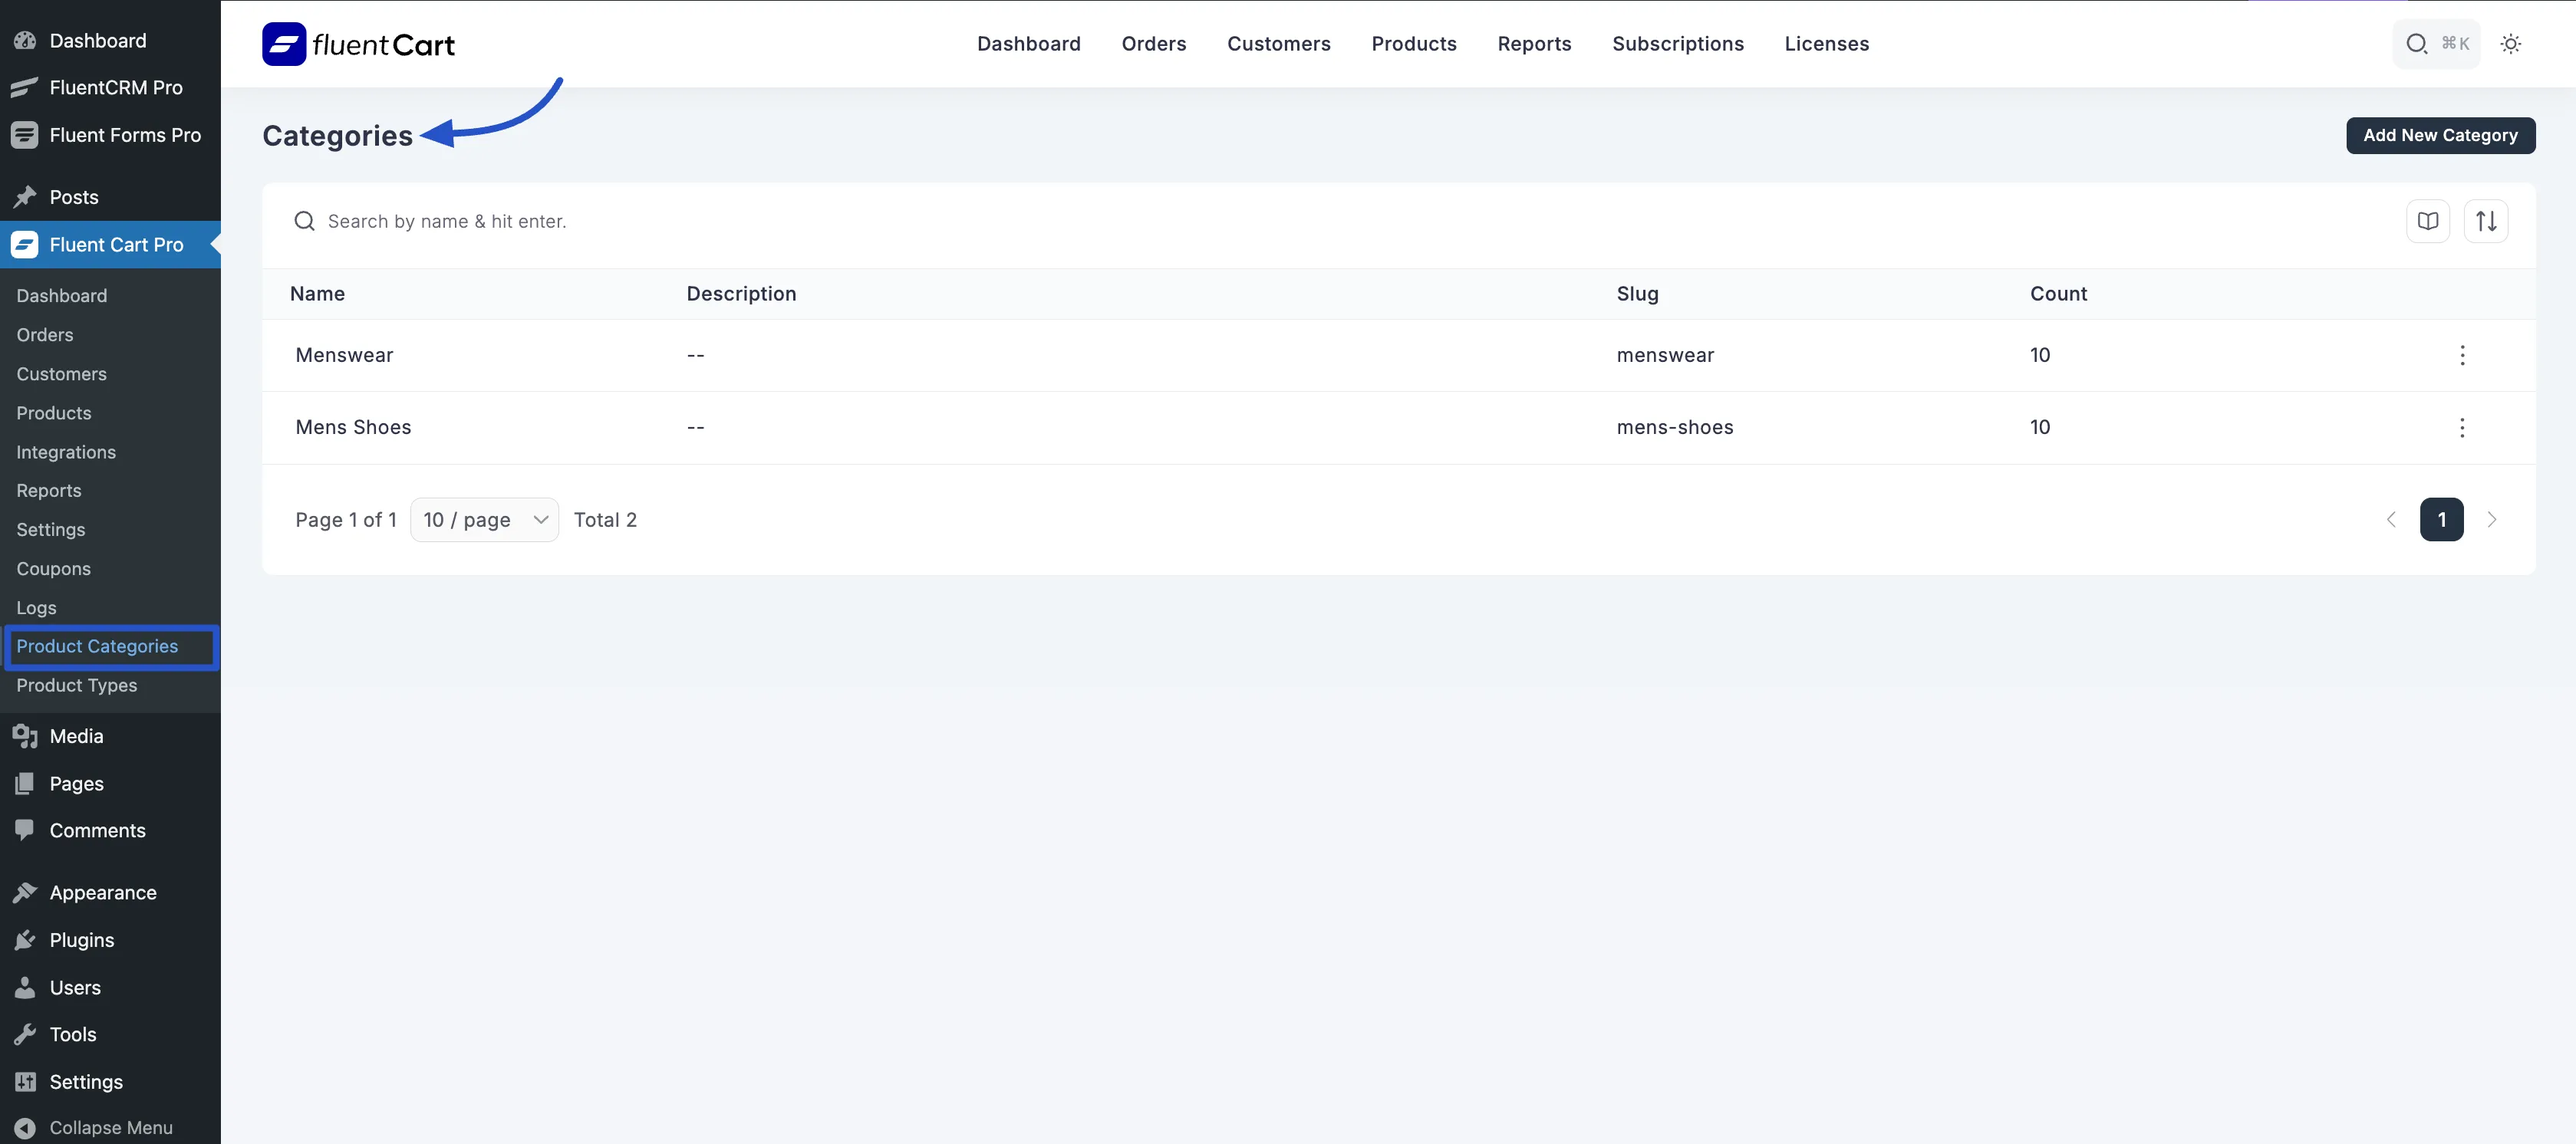
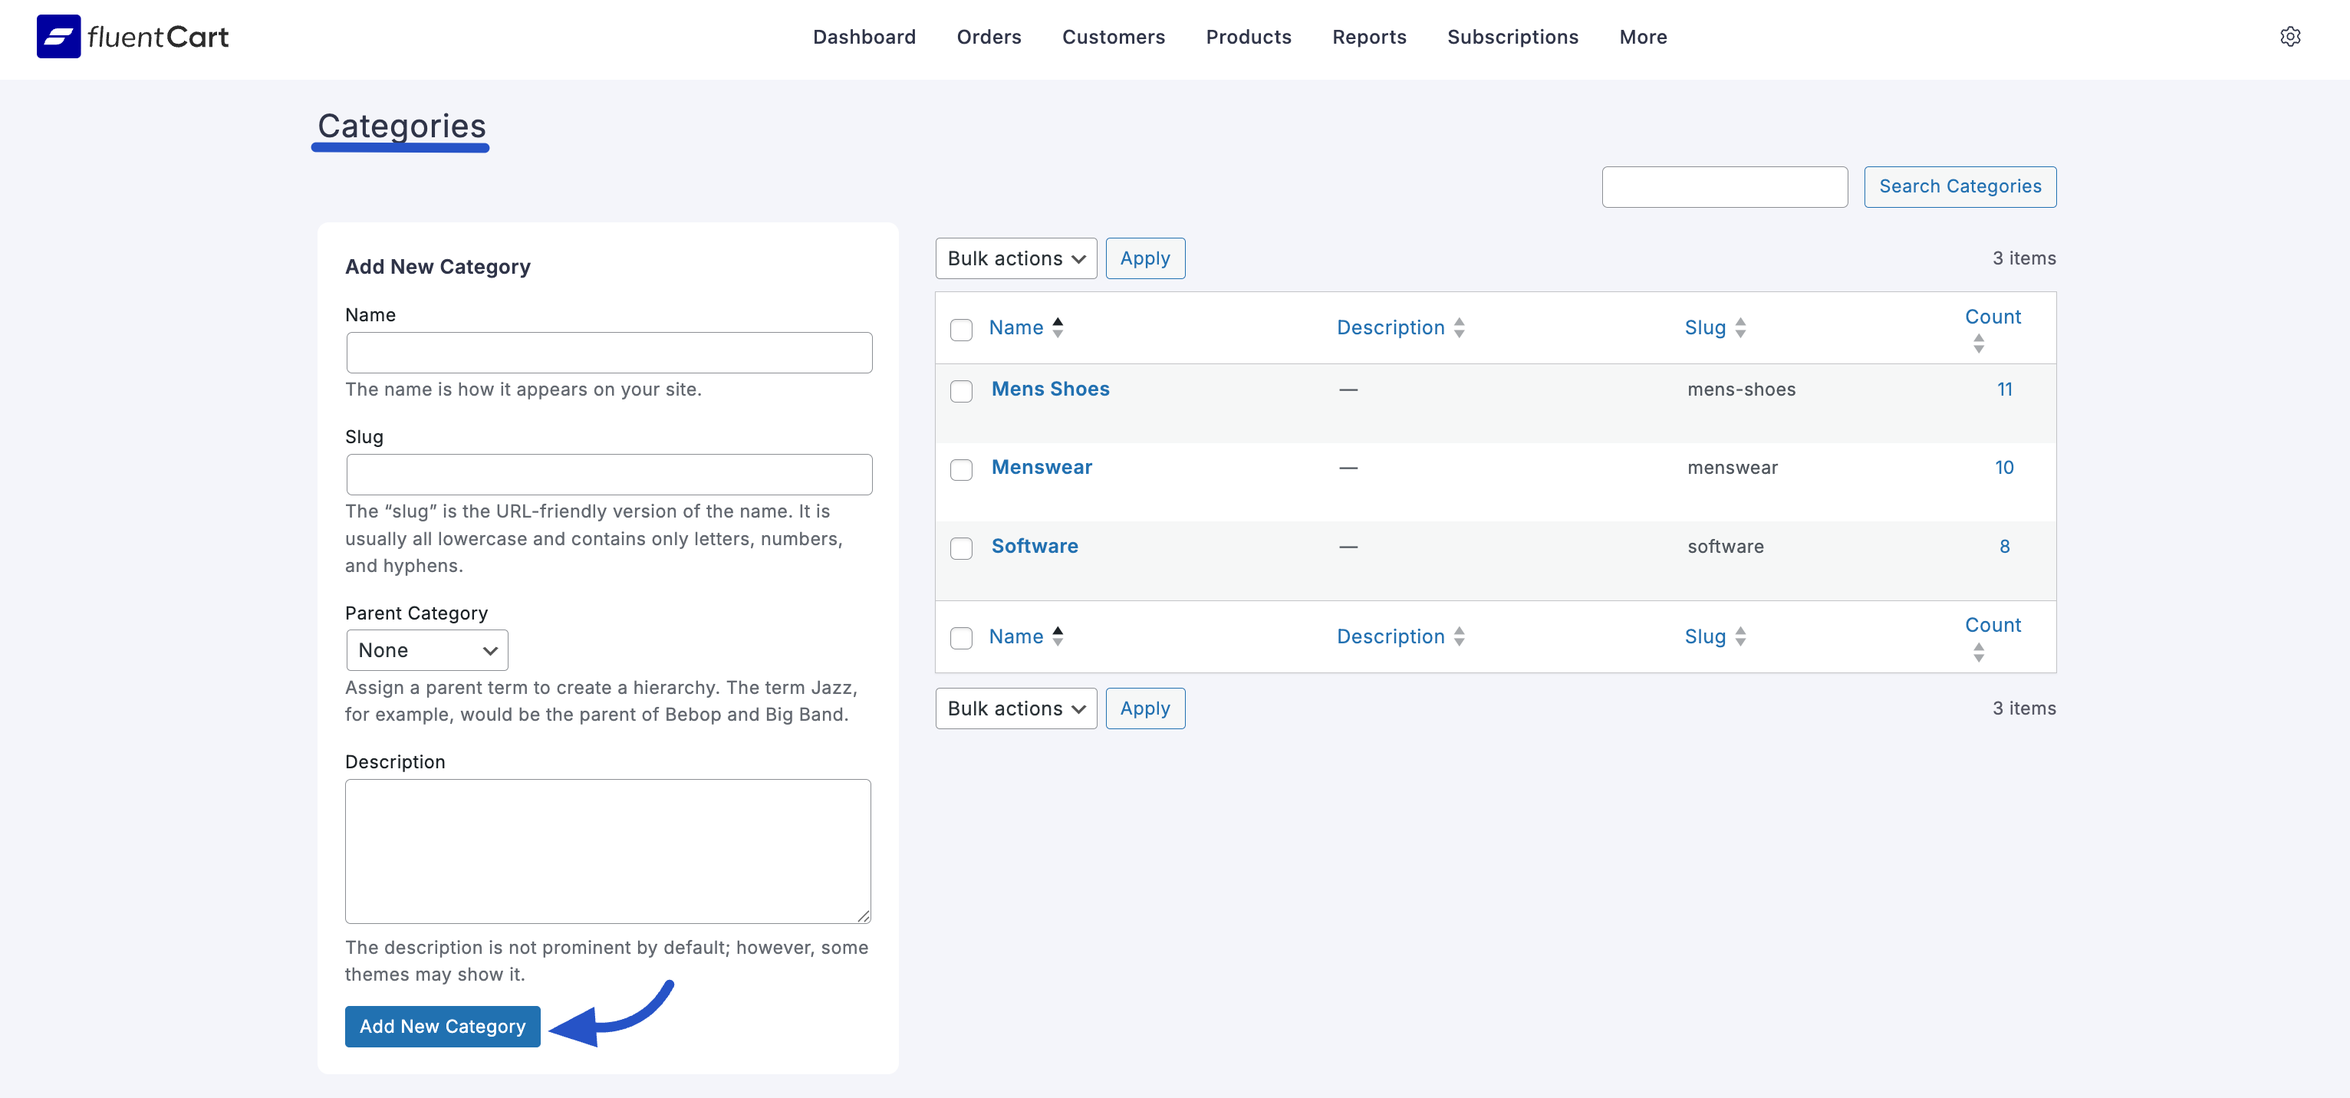
Category doc update

diff --git a/guide/product-types-creation/creating-managing-product-categories/index.md b/guide/product-types-creation/creating-managing-product-categories/index.md
@@ -1,48 +1,38 @@
-# Creating & Managing Product Categories
+## Creating & Managing Product Categories
 
-In FluentCart, product categories help you group similar items together. This makes it easier for customers to browse your store and find what they are looking for.
+Product categories are the primary way to group and organize the products in your store. A well-structured set of categories makes it easy for customers to browse your offerings, find what they're looking for, and discover new items.
 
-For example, you can create categories like "Men's Clothing," to organize your products effectively. Well-organized categories can improve the shopping experience and help increase sales.
+### Accessing Product Categories
 
-## Accessing Product Categories
+1.  From your WordPress dashboard, navigate to **FluentCart**.
+2.  In the left-hand menu, click on **Categories**.
 
-1.  From your WordPress dashboard, navigate to **FluentCart Pro > Product Categories** in the left WordPress sidebar.
-2.  This will open the **Categories** screen, displaying a table of all your existing product categories.
+This will take you to the main Categories screen, where you can add new categories and manage your existing ones.
 
-    ![Screenshot of Product Categories List Page](/images/product-types-creation/Creating-Managing-Product-Categories/Product-Category-1.webp)
+### How to Add a New Product Category
 
-## Understanding the Categories List Table
+On the left side of the Categories screen, you will find the form for adding a new category.
 
-The Categories list table provides key information for each category:
+Here’s a breakdown of the fields:
 
-* **Name:** The descriptive name of the product category (e.g., "Software", "Mens Shoes").
-* **Description:** A brief description of the category.
-* **Slug:** The URL-friendly version of the category name, automatically generated but editable.
-* **Count:** The number of products currently assigned to that specific category.
+* **Name:** Enter the name of your category as you want it to appear to customers on your storefront (e.g., "Digital Planners").
+* **Slug:** This is the URL-friendly version of the name. It is usually all lowercase and contains only letters, numbers, and hyphens. FluentCart will automatically create a slug from the name, but you can edit it if needed.
+* **Parent Category:** This allows you to create a hierarchy of categories. For example, you could create a "Clothing" category and then create "T-Shirts" and "Hoodies" as child categories underneath it. To create a top-level category, leave this set to "None."
+* **Description:** (Optional) You can add a short description for the category. Depending on your theme, this might be displayed at the top of the category page on your storefront.
 
-## Creating a New Product Category
+After filling in the details, click the **Add New Category** button. Your new category will now appear in the list on the right.
 
-1.  On the **Categories** screen, click the **"Add New Category"** button at the top right.
+![Add New Categories](/guide/public/images/product-types-creation/Creating-Managing-Product-Categories/Product-Category-1.webp)
 
-    ![Screenshot of Add New Category Button](/images/product-types-creation/Creating-Managing-Product-Categories/Product-Category-2.webp) 
+### Managing Existing Categories
 
-2.  An **"Add New Category"** modal window will appear.
+The table on the right side of the screen lists all your existing product categories. From here, you can quickly see the category's **Name, Description, Slug,** and a **Count** of how many products are in it.
 
-   
+To manage a category, hover your mouse over its name, and a set of action links will appear:
 
-3.  Fill in the following details for your new category:
-    * **Name:** Enter the desired name for your category (e.g., "E-Books", "Women's Apparel"). This field is required.
-    * **Slug:** (Optional) Enter a URL-friendly version of the name. If left blank, FluentCart will automatically generate one from the name.
-    * **Parent Category:** Use the dropdown labeled "Select" to choose an existing category if you want this new category to be a sub-category. If it's a top-level category, leave this as "Select".
-    * **Description:** Provide a brief description of what products this category will contain.
+* **Edit:** Click this to open a dedicated editor for that category, where you can change its name, slug, parent, or description.
+* **Quick Edit:** This allows you to make quick changes to the name and slug without leaving the main screen.
+* **Delete:** This will permanently remove the category.
+* **View:** This will take you to the public-facing category page on your storefront, showing all the products that belong to it.
 
-4.  Click the **"Add New Category"** button within the modal to save your new category.
-5.  To cancel, click the **"Cancel"** button.
-
- ![Screenshot of Add New Category Modal](/images/product-types-creation/Creating-Managing-Product-Categories/Product-Category-3.webp)
-
-## Searching and Filtering Categories
-
-* **Search Bar:** Use the search bar at the top of the Categories list to "Search by name & hit enter." to quickly find specific categories.
-* **Sorting:** You can sort the list by clicking the up/down arrows next to the column headers. 
-* **Edit & Delete:** To edit or delete a category, click the three-dot menu next to the category name. From there, select either Edit or Delete based on your need. 
+You can also use the **Bulk Actions** dropdown menu at the top of the list to delete multiple categories at once.

diff --git a/guide/getting-started/installation-activation.md b/guide/getting-started/installation-activation.md
@@ -17,6 +17,9 @@ This is the standard method for installing the core FluentCart plugin, which is 
 If you have purchased FluentCart Pro Addons for advanced features, you will need to upload and activate them. Ensure the Free Base Plugin (from step 1) is already installed and active before proceeding with Pro Addons.
 
 1.  Download the FluentCart Pro Addons `.zip` file from [FluentCart](https://fluentcart.com/).
+
+![Download Plugin](/guide/public/images/getting-started/install-activation/download-plugin.png)
+
 2.  Navigate to your WordPress dashboard.
 3.  Go to **Plugins > Add New**.
 4.  At the top of the page, click the **"Upload Plugin"** button.
@@ -32,7 +35,9 @@ After installing the Pro Addons, you will need to activate your license key. Thi
 2.  Alternatively, navigate to the FluentCart Dashboard in your WordPress admin area.
 3.  In the left sidebar, go to **FluentCart Pro > Settings**.
 4.  Click on the **"License Settings"** tab.
-5.  In the "License Key" field, enter the unique license key you received upon purchasing FluentCart Pro Addons from the site.
+5.  In the "License Key" field, enter the unique license key you received upon purchasing FluentCart Pro Addons from the [site](https://fluentcart.com/account/).
+
+![License Key](/guide/public/images/getting-started/install-activation/get-license.png)
 
 6.  Click the **"Verify License"** button.
  ![Screenshot of Licensing Settings Tab](/images/getting-started/install-activation/licensing-1.webp)
